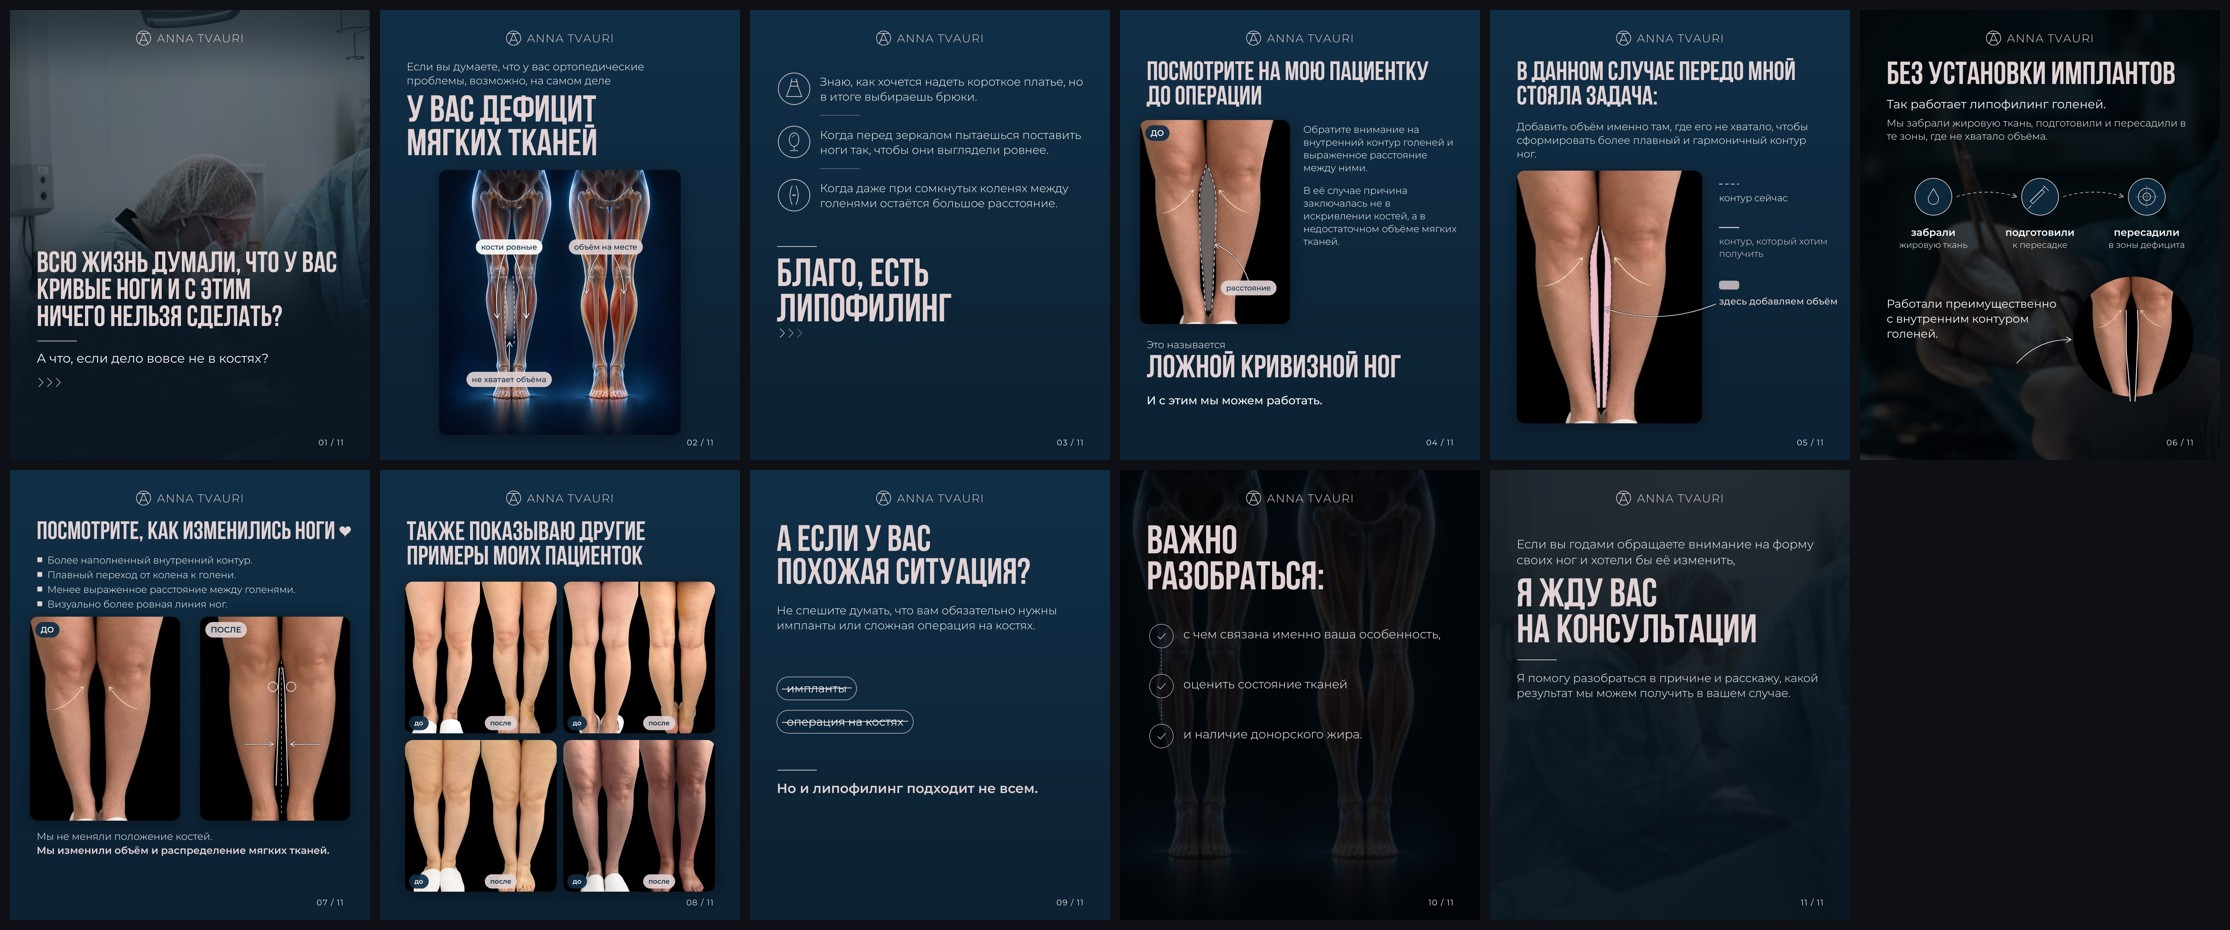
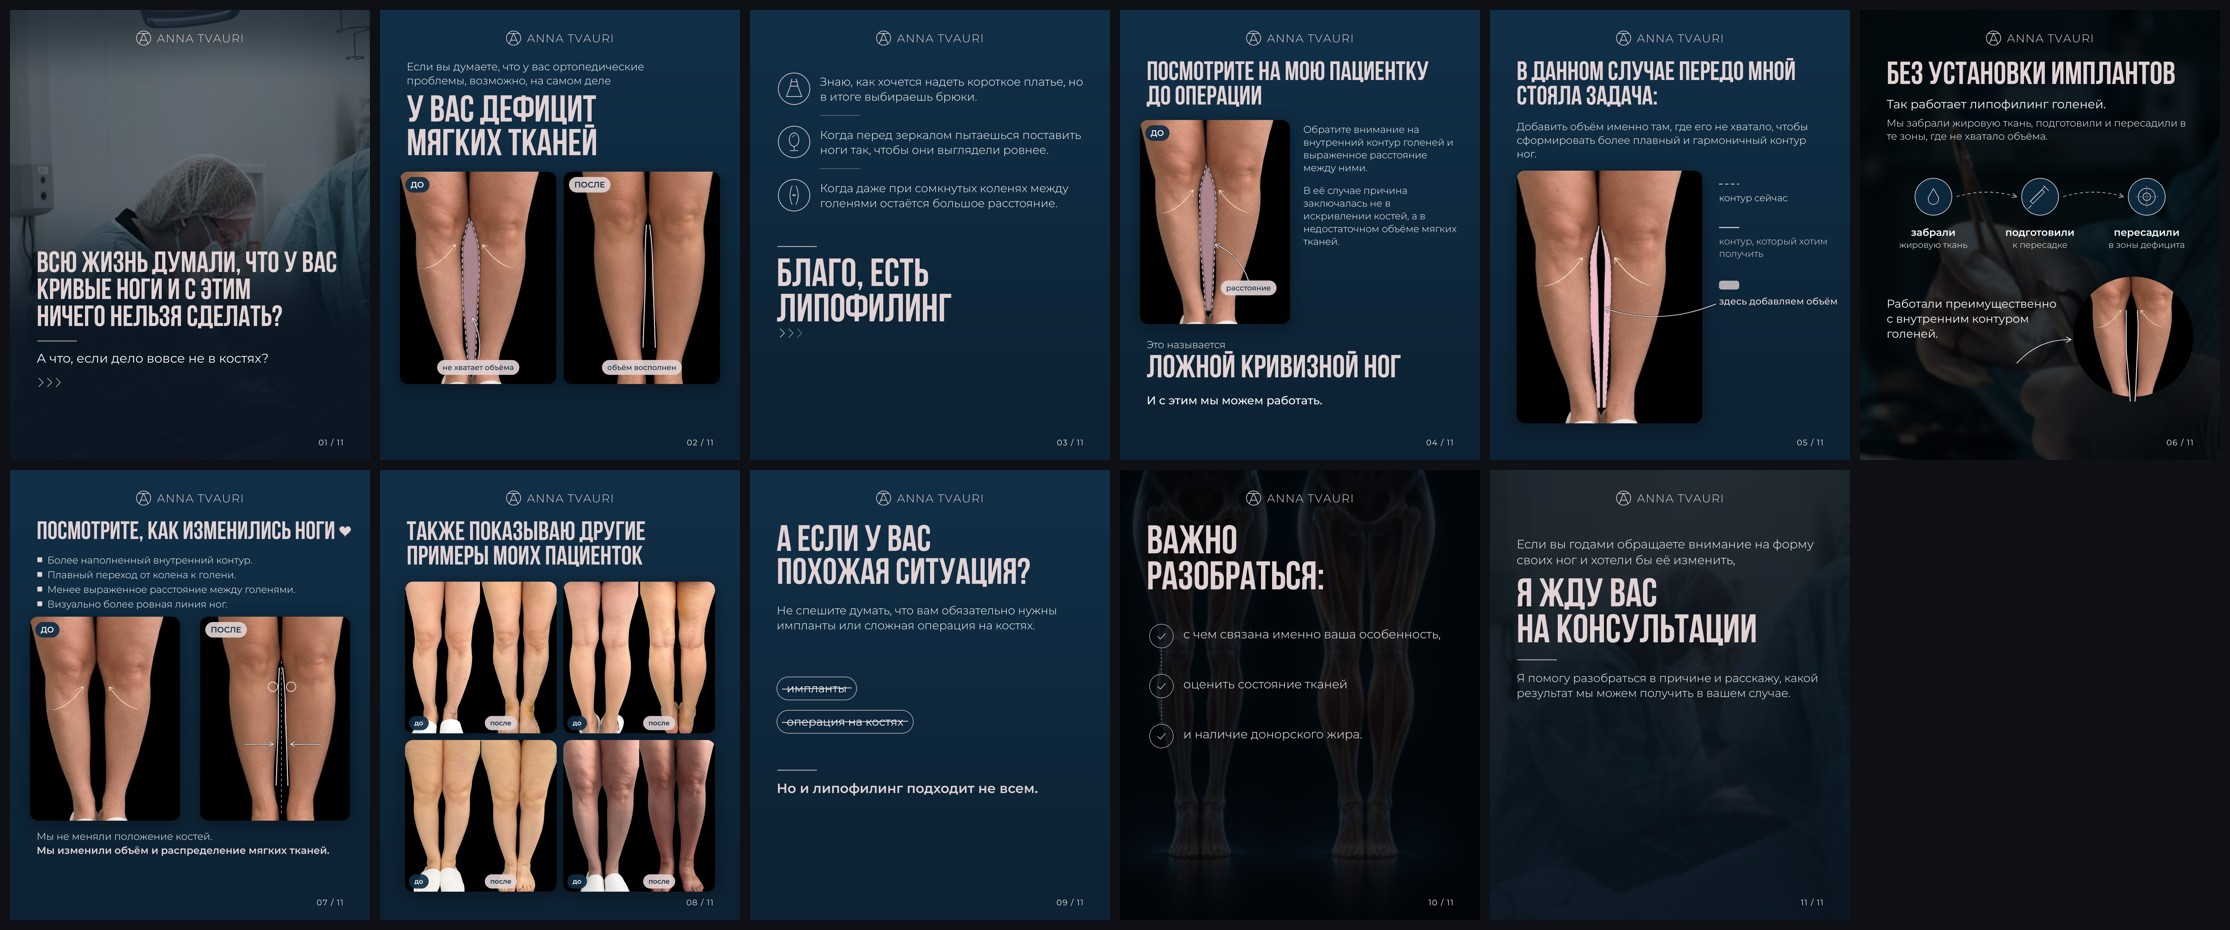
Ложная кривизна ног: slide 2 shows the patient before/after instead of the AI illustration; warmer gap fill
Claude-Session: https://claude.ai/code/session_01DLYcpYAewhkUMdYYshxueL

Changed region(s): [[0.1547, 0.1559, 0.3404, 0.4677], [0.526, 0.1871, 0.557, 0.3118]]

diff --git a/tools/post_false_curvature.py b/tools/post_false_curvature.py
@@ -235,28 +235,27 @@ def s2():
     els.append(E(lambda sl: para(sl, 80, 150, t, 32, 300, WHITE, 900), 0.2))
     y0 = 150 + para_h(t, 32, 300, 900) + 16
     els.append(E(lambda sl: sl.lines((80, y0), ["У ВАС ДЕФИЦИТ", "МЯГКИХ ТКАНЕЙ"], bebas(112), POWDER, lh=0.9), 1.3, "pop", 0.7))
-    top = y0 + 230; hgt = 1275 - top; wid = int(hgt * 900 / 985); x0 = (W - wid) // 2
-    box = (x0, int(top), x0 + wid, int(top + hgt))
-    els.append(card_el(photo(AI_LEGS), box, 0.6, "fade"))
-    m = mapper(box, (0, 0, 1, 1))
-    # left figure (like the patient): straight bones, but a gap where soft tissue is missing
-    els.append(E(lambda sl: (arrow_to(sl, (m(0.27, 0.30)[0], m(0, 0.32)[1]), m(0.245, 0.58), WHITE, 0.12),
-                             arrow_to(sl, (m(0.31, 0.30)[0], m(0, 0.32)[1]), m(0.36, 0.58), WHITE, -0.12),
-                             pill(sl, *m(0.29, 0.29), "кости ровные", WHITE, NAVY, 23, 500, "mm")), 2.6, "fade"))
-    def gap(sl):
-        cx, cy = m(0.292, 0.52); g = Image.new("RGBA", sl.im.size, (0, 0, 0, 0))
-        ImageDraw.Draw(g).ellipse(((cx - 24) * S, (cy - 95) * S, (cx + 24) * S, (cy + 95) * S), fill=POWDER + (150,))
-        sl.im.alpha_composite(g.filter(ImageFilter.GaussianBlur(10 * S)))
-        sl.dashed(ss.bez(m(0.278, 0.40), m(0.268, 0.52), m(0.275, 0.66)), POWDER, 2.2, 8, 7, 255)
-        sl.dashed(ss.bez(m(0.306, 0.40), m(0.316, 0.52), m(0.31, 0.66)), POWDER, 2.2, 8, 7, 255)
-    els.append(E(gap, 3.4, "fade", 0.8, pulse=True))
-    els.append(E(lambda sl: (arrow_to(sl, (m(0.29, 0.77)[0], m(0, 0.755)[1]), m(0.292, 0.64), POWDER, 0.0),
-                             pill(sl, *m(0.29, 0.79), "не хватает объёма", POWDER, NAVY, 23, 500, "mm")), 3.8, "fade"))
-    # right figure: the same bones, the soft tissue gives the contour
-    els.append(E(lambda sl: (arrow_to(sl, (m(0.66, 0.30)[0], m(0, 0.32)[1]), m(0.61, 0.48), POWDER, 0.15),
-                             arrow_to(sl, (m(0.72, 0.30)[0], m(0, 0.32)[1]), m(0.765, 0.48), POWDER, -0.15),
-                             pill(sl, *m(0.69, 0.29), "объём на месте", POWDER, NAVY, 23, 500, "mm")), 4.8, "fade"))
-    render(2, bg, els, 7.5)
+    # the patient right away: before with the gap where soft tissue is missing, after with the contour filled
+    top = int(y0 + 235); gap_ = 22; cw = (W - 120 - gap_) // 2
+    ch = int(cw * ((CROP[3] - CROP[1]) * photo(MAIN).height) / ((CROP[2] - CROP[0]) * (photo(MAIN).width // 2)))
+    ch = min(ch, 1272 - top); bb = (60, top, 60 + cw, top + ch); ab = (60 + cw + gap_, top, 60 + 2 * cw + gap_, top + ch)
+    mb, ma = mapper(bb, CROP), mapper(ab, CROP)
+    els.append(card_el(half("b", CROP), bb, 0.6))
+    els.append(E(lambda sl: pill(sl, bb[0] + 16, bb[1] + 16, "ДО", NAVY, WHITE, 24, 600), 0.9, "fade"))
+    els.append(E(lambda sl: contours(sl, mb, [B_L, B_R], WHITE), 2.3, "down", 1.0))
+    def gapfill(sl):
+        poly = [mb(*q) for q in smooth(B_L, 60)] + [mb(*q) for q in smooth(B_R, 60)[::-1]]
+        g = Image.new("RGBA", sl.im.size, (0, 0, 0, 0)); ImageDraw.Draw(g).polygon([(x * S, y * S) for x, y in poly], fill=(247, 196, 208, 175))
+        sl.im.alpha_composite(g.filter(ImageFilter.GaussianBlur(3 * S)))
+    els.append(E(gapfill, 3.2, "fade", 0.8, pulse=True))
+    gx, gy = mb(0.465, 0.62)
+    els.append(E(lambda sl: (arrow_to(sl, (bb[0] + cw / 2, bb[3] - 70), (gx, gy + 30), POWDER, 0.2),
+                             pill(sl, bb[0] + cw / 2, bb[3] - 50, "не хватает объёма", POWDER, NAVY, 22, 500, "mm")), 3.6, "fade"))
+    els.append(card_el(half("a", CROP), ab, 4.6, "wipe"))
+    els.append(E(lambda sl: pill(sl, ab[0] + 16, ab[1] + 16, "ПОСЛЕ", POWDER, NAVY, 24, 600), 5.2, "fade"))
+    els.append(E(lambda sl: contours(sl, ma, [A_L, A_R], POWDER, dashed=False, w=3), 5.4, "down", 1.0))
+    els.append(E(lambda sl: pill(sl, ab[0] + cw / 2, ab[3] - 50, "объём восполнен", POWDER, NAVY, 22, 500, "mm"), 6.0, "fade"))
+    render(2, bg, els, 8.0)
 
 
 def icon_dress(sl, c):
@@ -319,7 +318,7 @@ def s4():
     els.append(E(lambda sl: contours(sl, mp, [B_L, B_R], WHITE), 1.8, "down", 1.2))
     def gapfill(sl):
         poly = [mp(*q) for q in smooth(B_L, 60)] + [mp(*q) for q in smooth(B_R, 60)[::-1]]
-        g = Image.new("RGBA", sl.im.size, (0, 0, 0, 0)); ImageDraw.Draw(g).polygon([(x * S, y * S) for x, y in poly], fill=POWDER + (120,))
+        g = Image.new("RGBA", sl.im.size, (0, 0, 0, 0)); ImageDraw.Draw(g).polygon([(x * S, y * S) for x, y in poly], fill=(247, 196, 208, 175))
         sl.im.alpha_composite(g.filter(ImageFilter.GaussianBlur(3 * S)))
     els.append(E(gapfill, 3.0, "fade", 0.8, pulse=True))
     gx, gy = mp(0.47, 0.60)
